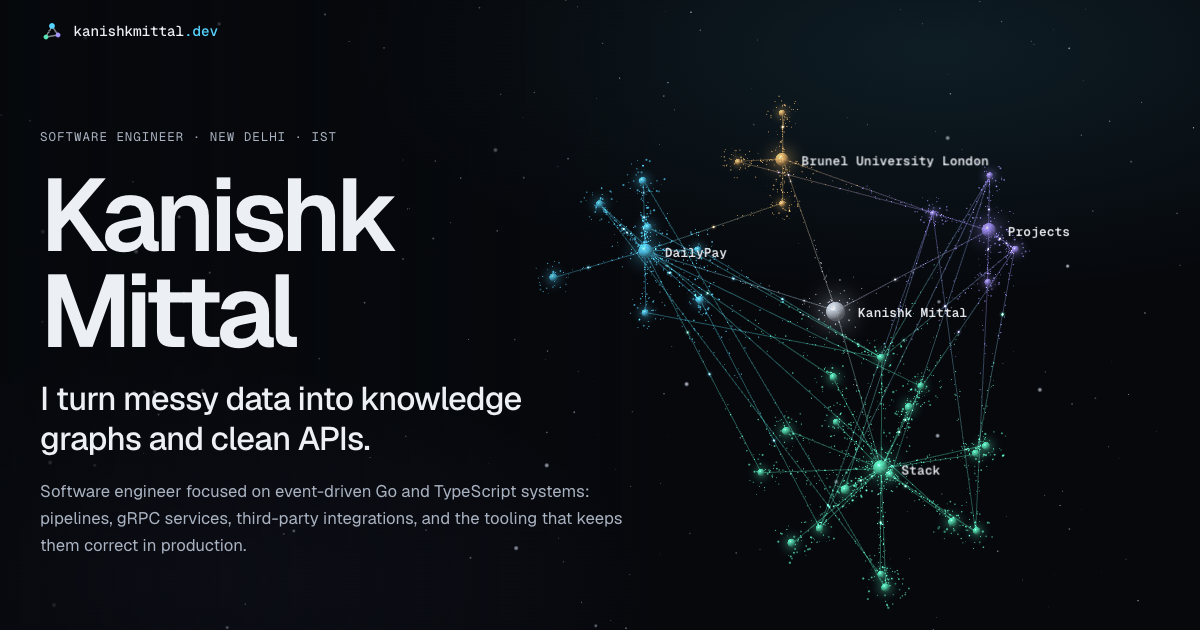
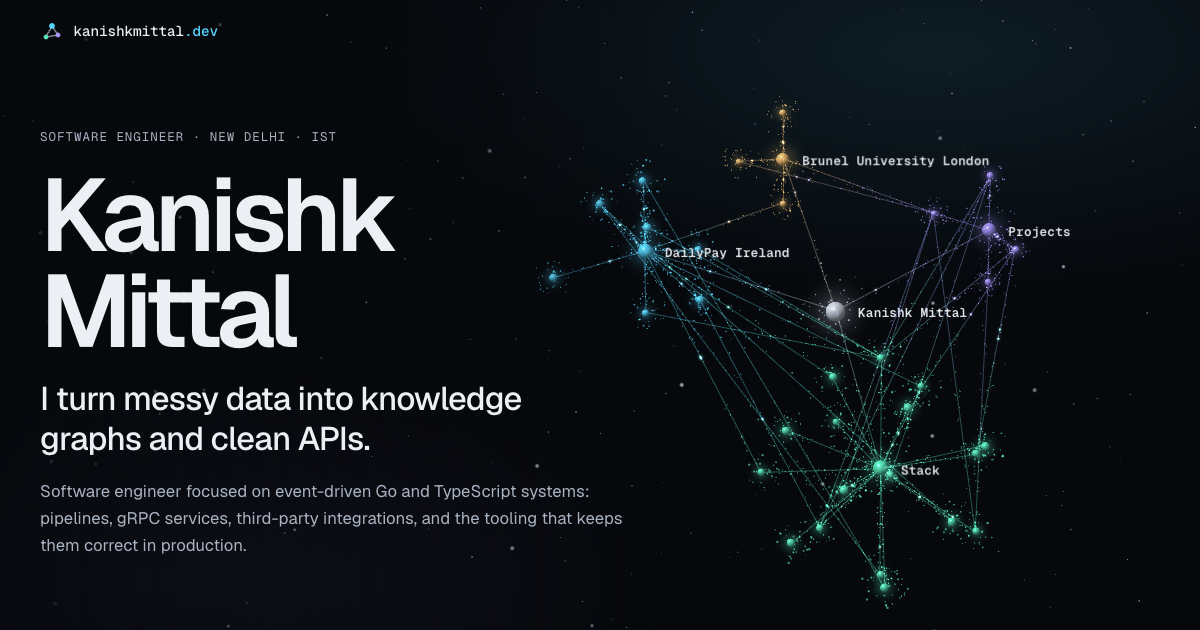
nitpicks 2

diff --git a/src/scripts/ui.ts b/src/scripts/ui.ts
@@ -102,8 +102,17 @@ export function initHeader(): void {
 }
 
 export function initReveal(): void {
+  // The hero is the first screen, so it enters on load instead of waiting for
+  // scroll. Two frames let the hidden state paint first, so the transition runs.
+  const eager = document.querySelectorAll('[data-reveal="eager"]');
+  window.requestAnimationFrame(() => {
+    window.requestAnimationFrame(() => {
+      for (const element of eager) element.classList.add('is-in');
+    });
+  });
+
   onVisible(
-    document.querySelectorAll('[data-reveal]'),
+    document.querySelectorAll('[data-reveal]:not([data-reveal="eager"])'),
     (element) => element.classList.add('is-in'),
     '0px 0px -6% 0px',
   );

diff --git a/README.md b/README.md
@@ -1,111 +1,7 @@
 # kanishkmittal.dev
 
-The personal site of Kanishk Mittal, software engineer.
+I'm Kanishk Mittal, a software engineer, and this is my personal site.
 
-The page sits on top of a 3D knowledge graph of the profile it describes. It opens as a cloud of scattered points, resolves into the graph, and the camera flies from cluster to cluster as you scroll.
+The page sits on top of a 3D knowledge graph of my work: where I've worked, what I've built, and the tools I use. It opens as a cloud of scattered points, resolves into the graph, and the camera flies from cluster to cluster as you scroll.
 
-![The hero section in the dark theme](public/og.png)
-
-## Stack
-
-- [Astro](https://astro.build) builds a fully static site. All content is in the HTML.
-- [three.js](https://threejs.org) draws the graph with custom shaders. It loads in its own chunk after the page is usable.
-- TypeScript throughout, with [Vitest](https://vitest.dev) for the scene logic.
-- nginx serves the build in Docker.
-
-## Run it
-
-You need Node 22.12 or later.
-
-```sh
-npm install
-npm run dev      # dev server with hot reload, http://localhost:4321
-```
-
-| Command           | What it does                                    |
-| ----------------- | ----------------------------------------------- |
-| `npm run dev`     | Dev server with hot reload                      |
-| `npm run build`   | Type-check, then build the site into `dist/`    |
-| `npm run preview` | Serve the built `dist/` locally                 |
-| `npm run lint`    | Type-check the Astro and TypeScript files       |
-| `npm test`        | Run the unit tests                              |
-
-## Run it in Docker
-
-You need Docker with Compose.
-
-```sh
-make up      # build the image and start the site, http://localhost:4321
-make down    # stop and remove the container and its network
-```
-
-`make up PORT=8080` uses another port. `make down` keeps the image, so the next `make up` is quick.
-
-The image is two stages: Node builds the site, then a non-root nginx image serves it. The container's filesystem is read-only. The nginx config is in `config/nginx.conf`.
-
-## Change the content
-
-Almost every word on the page is in one file.
-
-| To change                                | Edit                         |
-| ---------------------------------------- | ---------------------------- |
-| Text: roles, projects, skills, contact   | `src/data/profile.ts`        |
-| Graph nodes and the links between them   | `src/data/graph.ts`          |
-| Where the camera rests for each section  | `src/scene/waypoints.ts`     |
-| Colours, for the page                    | `src/styles/global.css`      |
-| Colours, for the graph                   | `src/scene/palette.ts`       |
-
-The two colour files mirror each other, so change them together.
-
-A node in `graph.ts` needs an `id`, a `label`, a `cluster` and the `section` it scrolls to when clicked. Each cluster has exactly one hub. Every other node is linked to its hub automatically, and `CROSS_EDGES` holds the links between clusters. The tests fail if an edge points at a node that doesn't exist.
-
-A rebuild carries a text change through to the page, the graph labels and the metadata. The one exception is `public/og.png`, the social preview image, which is a screenshot of the hero and has to be retaken by hand.
-
-## How it's laid out
-
-```
-src/
-  data/         Content and graph data, plus their types
-  components/   One Astro component per section
-  layouts/      The page shell: head, metadata, theme bootstrap
-  pages/        index and 404
-  scene/        The 3D graph
-  scripts/      Page behaviour: theme, nav, reveals, terminal demo
-  styles/       Design tokens and global styles
-tests/          Unit tests for the scene logic
-config/         nginx config for the Docker image
-public/         Favicon, social image, robots.txt, sitemap
-```
-
-Inside `scene/`:
-
-| File             | Job                                                                 |
-| ---------------- | ------------------------------------------------------------------- |
-| `layout.ts`      | Places nodes and the loose points. Pure and deterministic.          |
-| `waypoints.ts`   | Maps scroll position to a camera position. Pure.                    |
-| `builders.ts`    | Turns the layout into three.js geometry                             |
-| `shaders.ts`     | GLSL for points, nodes, edges and pulses                            |
-| `graph-scene.ts` | The renderer: intro, camera easing, themes                          |
-| `labels.ts`      | Node labels as DOM elements, hidden when they'd sit behind a card   |
-| `boot.ts`        | Wires the scene to scroll, pointer, resize and theme events         |
-
-## How the graph works
-
-Every point has two positions: a random one in a cloud, and a settled one on the graph. A single `uProgress` uniform moves all of them from the first to the second in the vertex shader, each with its own delay, so the graph condenses instead of snapping into place.
-
-Nodes are flat points shaded as lit spheres in the fragment shader. Edges draw outward from their source. Pulses are points that travel along edges.
-
-The layout uses a seeded random generator, so the graph looks the same on every visit.
-
-## Themes and fallbacks
-
-- Dark and light themes follow the system setting. The toggle remembers a choice in `localStorage`.
-- With reduced motion turned on, the graph appears already formed and nothing animates.
-- Without WebGL, the page shows a plain background.
-- Without JavaScript, every section is still readable.
-
-## Deploy
-
-`npm run build` writes a static site to `dist/`. Upload that folder to any static host, such as Cloudflare Pages or Netlify, or run the Docker image.
-
-The site URL is set in `astro.config.mjs`. It's used for the canonical link and the social image URL.
+![The hero section of my site in the dark theme](public/og.png)
